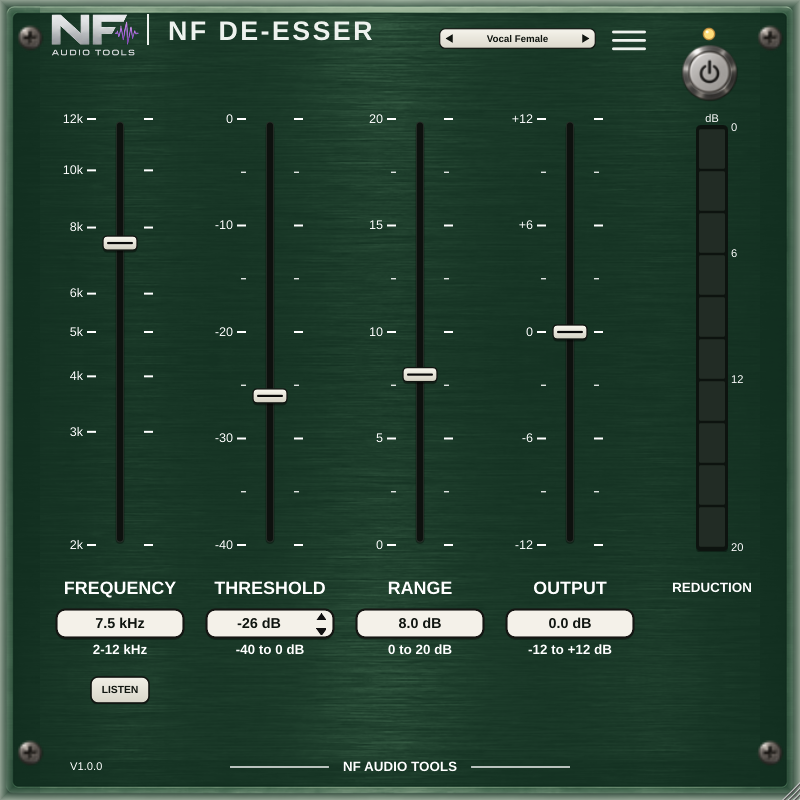
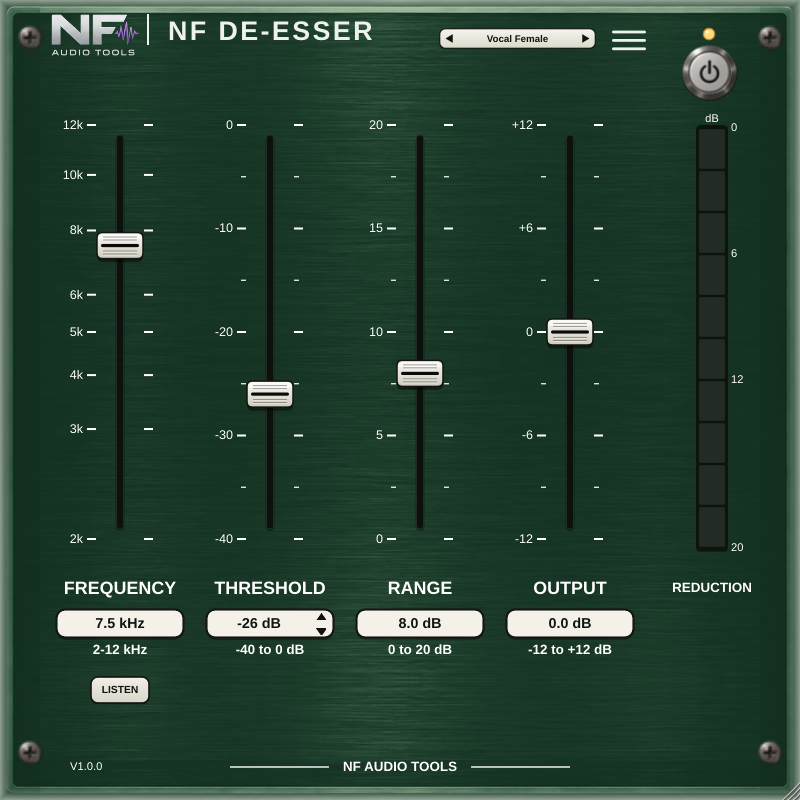
Console-style fader cap
Claude-Session: https://claude.ai/code/session_01EbhKLRF1YXDywKjGvwZhBR

diff --git a/Source/UI/NFDeEsserLookAndFeel.cpp b/Source/UI/NFDeEsserLookAndFeel.cpp
@@ -55,7 +55,7 @@ void NFDeEsserLookAndFeel::drawRotarySlider(juce::Graphics& g,int x,int y,int w,
 // The vertical faders (component id "fader"): the thumb travel margin scales with the component so the scale marks drawn by the editor line up.
 int NFDeEsserLookAndFeel::getSliderThumbRadius(juce::Slider& slider)
 {
-    if (slider.getComponentID() == "fader") return juce::roundToInt((float) slider.getWidth() * 0.12f);
+    if (slider.getComponentID() == "fader") return juce::roundToInt((float) slider.getWidth() * 0.24f);
     return juce::LookAndFeel_V4::getSliderThumbRadius(slider);
 }
 
@@ -70,8 +70,8 @@ void NFDeEsserLookAndFeel::drawLinearSlider(juce::Graphics& g,int x,int y,int wi
     juce::Graphics::ScopedSaveState state(g);
     const float s = (float)width / 56.0f;   // the component is 56 base units wide
     const float centreX = (float)x + (float)width*0.5f;
-    const float trackTop = (float)y + 3.0f*s;
-    const float trackBottom = (float)y + (float)height - 3.0f*s;
+    const float trackTop = (float)y + 10.0f*s;
+    const float trackBottom = (float)y + (float)height - 10.0f*s;
 
     // Groove: matte black, rounded, with a soft shadow.
     g.setColour(juce::Colour(0x55000000));
@@ -81,17 +81,27 @@ void NFDeEsserLookAndFeel::drawLinearSlider(juce::Graphics& g,int x,int y,int wi
     g.setColour(juce::Colour(0xff2a302b));
     g.drawRoundedRectangle(centreX-3.5f*s, trackTop, 7.0f*s, trackBottom-trackTop, 3.5f*s, 0.8f*s);
 
-    // Thumb: cream-white like the knobs, black centre line, thin dark outline.
-    juce::Rectangle<float> thumb(centreX-17.0f*s, sliderPos-7.0f*s, 34.0f*s, 14.0f*s);
-    g.setColour(juce::Colour(0x60000000));
-    g.fillRoundedRectangle(thumb.translated(0.0f,2.5f*s), 4.0f*s);
-    g.setGradientFill(juce::ColourGradient(juce::Colour(0xfffaf8f0), thumb.getCentreX(), thumb.getY(),
-                                           juce::Colour(0xffd3d0c2), thumb.getCentreX(), thumb.getBottom(), false));
-    g.fillRoundedRectangle(thumb, 4.0f*s);
+    // Thumb: console-style fader cap, cream-white like the knobs, with grip ridges and a black centre line.
+    juce::Rectangle<float> thumb(centreX-23.0f*s, sliderPos-13.0f*s, 46.0f*s, 26.0f*s);
+    g.setColour(juce::Colour(0x70000000));
+    g.fillRoundedRectangle(thumb.translated(0.0f,3.5f*s), 5.0f*s);
+    g.setGradientFill(juce::ColourGradient(juce::Colour(0xfffcfaf3), thumb.getCentreX(), thumb.getY(),
+                                           juce::Colour(0xffcfccbd), thumb.getCentreX(), thumb.getBottom(), false));
+    g.fillRoundedRectangle(thumb, 5.0f*s);
+    g.setColour(juce::Colours::white.withAlpha(0.55f));                       // soft highlight on the upper edge
+    g.fillRoundedRectangle(thumb.reduced(2.0f*s).removeFromTop(5.0f*s), 2.5f*s);
     g.setColour(juce::Colour(0xff111511));
-    g.drawRoundedRectangle(thumb, 4.0f*s, 1.3f*s);
-    g.setColour(juce::Colour(0xff0a0a0a));
-    g.fillRoundedRectangle(thumb.getX()+4.0f*s, thumb.getCentreY()-1.1f*s, thumb.getWidth()-8.0f*s, 2.2f*s, 1.1f*s);
+    g.drawRoundedRectangle(thumb, 5.0f*s, 1.5f*s);
+    // grip ridges above and below the centre line
+    for (float dy : { -8.5f, -5.5f, 5.5f, 8.5f })
+    {
+        g.setColour(juce::Colour(0x55000000));
+        g.fillRect(thumb.getX()+6.0f*s, thumb.getCentreY()+dy*s-0.6f*s, thumb.getWidth()-12.0f*s, 1.2f*s);
+        g.setColour(juce::Colours::white.withAlpha(0.6f));
+        g.fillRect(thumb.getX()+6.0f*s, thumb.getCentreY()+dy*s+0.6f*s, thumb.getWidth()-12.0f*s, 0.8f*s);
+    }
+    g.setColour(juce::Colour(0xff0a0a0a));                                     // centre line (the value mark)
+    g.fillRoundedRectangle(thumb.getX()+4.0f*s, thumb.getCentreY()-1.6f*s, thumb.getWidth()-8.0f*s, 3.2f*s, 1.6f*s);
 }
 
 void NFDeEsserLookAndFeel::drawScrew(juce::Graphics& g, juce::Rectangle<float> bounds)
